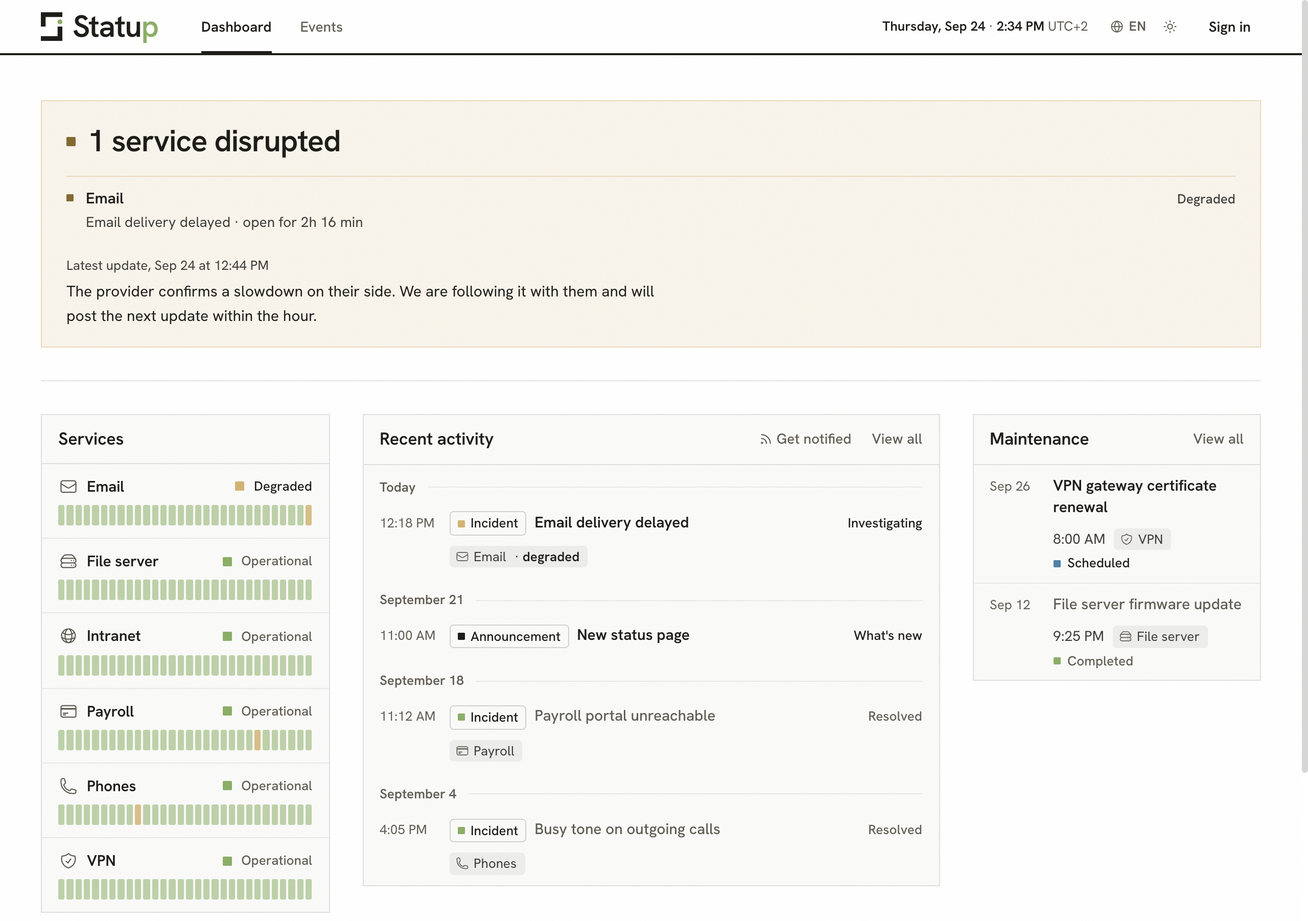
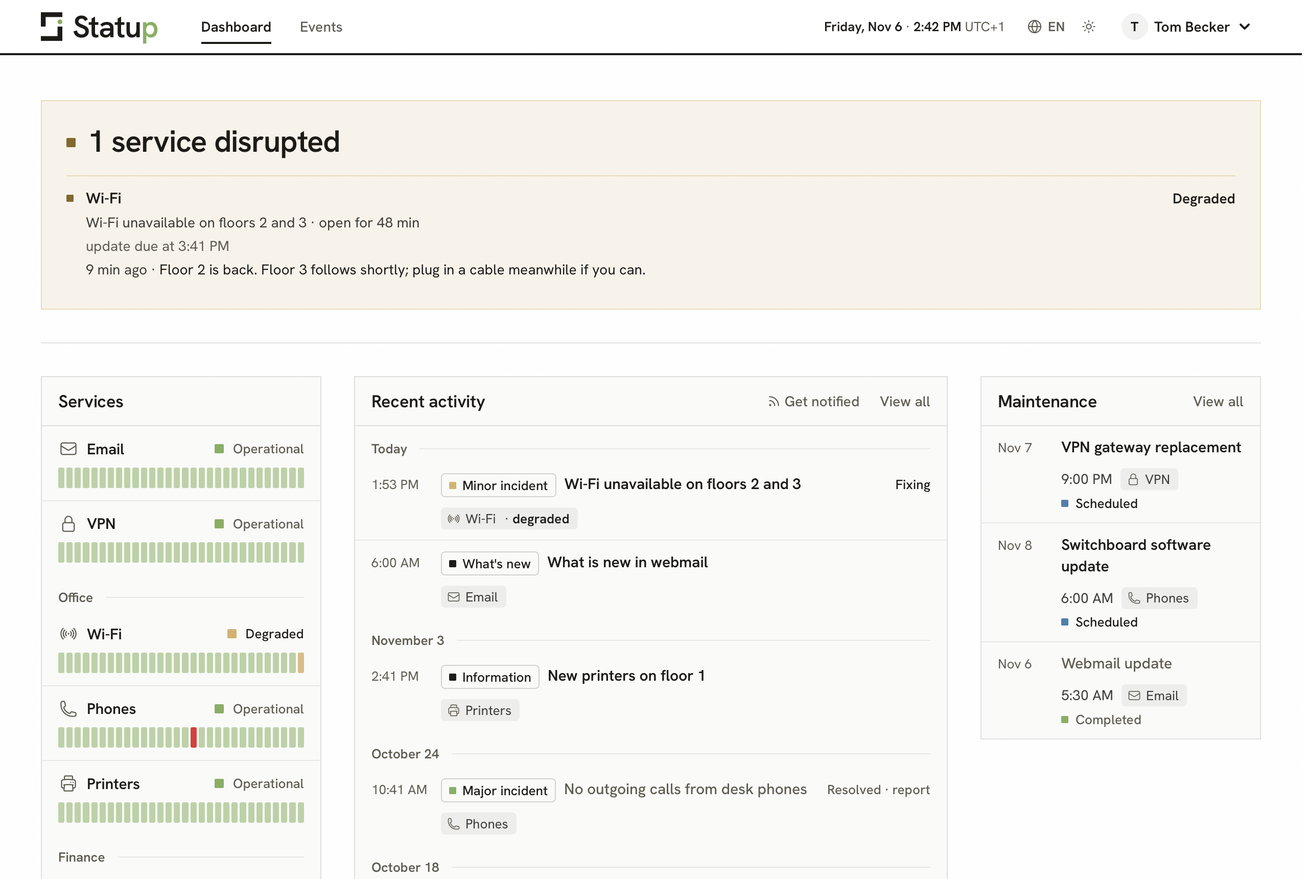
README: shorter, the four ways to install, new screenshots with a themes image, no roadmap

diff --git a/README.md b/README.md
@@ -8,10 +8,10 @@
 ### Every team in the loop, before anyone asks.
 
 [![License: AGPL-3.0-or-later](https://img.shields.io/badge/license-AGPL--3.0--or--later-blue.svg)](LICENSE)
+[![Latest release](https://img.shields.io/github/v/release/karl-cta/statup?label=release)](https://github.com/karl-cta/statup/releases/latest)
 [![Built with Rust](https://img.shields.io/badge/built%20with-Rust-orange.svg)](https://www.rust-lang.org/)
-[![Status: pre-v1](https://img.shields.io/badge/status-pre--v1-yellow.svg)](#status)
 
-[Live demo](https://demo.statup.dev) · [Website](https://statup.dev) · [Quick start](#quick-start) · [Documentation](https://statup.dev/docs/)
+[Live demo](https://demo.statup.dev) · [Website](https://statup.dev) · [Install](#install) · [Documentation](https://statup.dev/docs/)
 
 </div>
 
@@ -19,55 +19,37 @@
 
 <picture>
   <source media="(prefers-color-scheme: dark)" srcset=".github/assets/status-page-dark.png">
-  <img src=".github/assets/status-page.png" alt="The status page: a banner saying one service is disrupted, with the incident and its latest update, then the services with thirty days of availability, the recent activity and the maintenance schedule" width="1280">
+  <img src=".github/assets/status-page.png" alt="The Statup status page: a banner saying one service is disrupted, with the incident and its latest update, then the services with their recent days, the recent activity and the maintenance schedule" width="1280">
 </picture>
 
 ## What is Statup?
 
 > *"Is the internet down?"* *"Is it just me, or is Outlook broken?"*
 
-Every outage starts with the same questions, by phone, by chat and at the IT office door. Statup answers them before anyone asks.
-
-It is a status page you host yourself. Whoever runs a service posts, once, what is broken, what is planned and what has changed. Everyone else reads it in plain words, from a desk or a phone, without an account. Monitoring tools are made for the people who fix things; Statup is made for everyone else.
-
-**What it is for**
-
-- **An outage**: the VPN is down. The whole company sees it, sees that IT is on it, and sees when it is back.
-- **Planned work**: the accounting software upgrade is announced a week ahead, then starts and ends on its own on Saturday.
-- **News**: a new version of the payroll software, the printer that moved to the second floor, the VPN client everyone must install.
-- **Beyond IT**: a small business keeping its clients informed when its service is down.
-
-**[Try the live demo](https://demo.statup.dev)**, and sign in with `demo@statup.dev` / `StatupDemo#1` to publish as an editor. It starts over every hour.
+Statup answers before anyone asks. It is a status page you host yourself: whoever runs a service posts, once, what is broken, what is planned and what has changed, and everyone else reads it in plain words, from a desk or a phone. Monitoring tools are made for the people who fix things; Statup is made for everyone else.
 
 ## Features
 
 - **The answer first**: a banner says what is wrong, what is affected and since when, above every service and its last 90 days.
-- **Runs on its own**: a service follows the incident that names it, and planned work starts and ends at the times announced.
-- **Notices first**: it checks on its own, every minute, that a site or a server answers, or listens to the monitoring you already run; an outage shows after three minutes without an answer, or the delay set for that service.
-- **Works with your monitoring**: Prometheus, Grafana, Zabbix or Uptime Kuma report an outage, and Statup announces it; a script publishes through the HTTP API, and an Uptime Kuma status page imports in one go.
-- **Quick to publish**: dated updates, reusable templates and a short report once an incident is resolved; an outage spotted by the checks is declared in one click.
-- **Tells people where they are**: each incident, maintenance and announcement posted to Microsoft Teams, Slack, Google Chat, Discord or Mattermost, to phones through ntfy, by email, or to any tool through a webhook, in the language of each channel.
-- **Easy to follow**: search and filters, a side panel to read without leaving the list, an Atom feed for feed readers, and an email at each update for those who subscribe.
-- **A record of everything**: a Journal for administrators shows who changed what, sign-ins, outages with their reason and messages that did not leave, kept 90 days and exported as a CSV file.
-- **Your page, your way**: public or members only, your name and logo, blocks you arrange on the page; French, English, German and Spanish, light and dark, accessible.
+- **Notices on its own**: it checks every minute that a site or a server answers, or takes the outages your Prometheus, Grafana, Zabbix or Uptime Kuma already see.
+- **Quick to publish**: incidents, planned maintenance and news, with dated updates, templates and a short report; planned work starts and ends on its own.
+- **Reaches people where they are**: Microsoft Teams, Slack, Google Chat, Discord, Mattermost, ntfy, email and webhooks, plus email subscriptions, an Atom feed and a widget for your intranet.
+- **For the right eyes**: public or members only, with services kept to the groups that use them.
+- **Your page, your way**: your name and logo, twelve colours and four ambiances in light and dark, in French, English, German and Spanish.
+- **Light and safe**: one Rust binary and one SQLite file, backups built in, an HTTP API, a Journal of who did what, Argon2id passwords and a strict Content Security Policy.
 
-**Light, private, safe by default.**
+<p align="center">
+  <picture>
+    <source media="(prefers-color-scheme: dark)" srcset=".github/assets/themes-dark.png">
+    <img src=".github/assets/themes.png" alt="The header and the banner of the status page cut in four slices, each in another theme: a colour for the header line and an ambiance for the background" width="640">
+  </picture>
+  <br>
+  <sub>The same page in four of its themes.</sub>
+</p>
 
-- **Light**: one Rust binary and one SQLite file, in a Docker image of about 11 MB. No Redis, no Postgres.
-- **Private**: fonts and scripts come from your instance. The server only reaches the addresses you ask it to check or to notify, and GitHub once a day to look for a new version (`UPDATE_CHECK=false` turns that off).
-- **Safe**: passwords hashed with Argon2id, a CSRF token on every form, a strict Content Security Policy on every page.
+## Install
 
-## How it works
-
-- **Services** are the tools people rely on: mail, the VPN, the ERP, the phones. Each shows one state: operational, degraded, outage or maintenance. Statup can also check on its own that a service answers.
-- **Events** are what gets published. An **incident** when something breaks, a **maintenance** when work is planned, an **announcement** for news. An incident sets the state of the services it names until it reaches Monitoring, and a maintenance while it is under way, unless it announces no downtime.
-- **People** read the page, with or without an account. **Editors** publish events and set service states; **administrators** also run the settings, the team and the layout of the page.
-
-## Quick start
-
-You need Docker with Docker Compose 2.24 or newer.
-
-**1. Start Statup**
+**Docker**, with Docker Compose 2.24 or newer:
 
 ```bash
 mkdir statup && cd statup
@@ -75,54 +57,32 @@ curl -O https://raw.githubusercontent.com/karl-cta/statup/main/docker-compose.ym
 docker compose up -d
 ```
 
-Docker downloads the ready image, for x86-64 and ARM servers alike, and starts it in seconds.
+**Linux**, as a systemd service:
 
-Without Docker, one command installs Statup as a service on [Linux](https://statup.dev/docs/install-linux/) or [Windows Server](https://statup.dev/docs/install-windows/).
+```bash
+curl -fsSL https://github.com/karl-cta/statup/releases/latest/download/install.sh | sudo sh
+```
 
-**2. Open it in your browser**
+**Windows Server**, as a Windows service, in PowerShell opened as an administrator:
 
-At http://localhost:3000, or your server's address on port 3000, an empty instance walks you through four steps: your administrator account, the page's name, logo and audience, the services to follow, then the address to share.
+```powershell
+irm https://github.com/karl-cta/statup/releases/latest/download/install.ps1 | iex
+```
 
-**3. Invite your team**
+**NixOS**: add the flake and enable its module, see [NixOS](https://statup.dev/docs/nixos/).
 
-Add them from the **Team** page: they open the same address. For HTTPS and a name of your own, such as `status.example.com`, put Statup behind a reverse proxy.
+Then open port 3000 of your server in a browser: the first screen creates the administrator account and walks you through the page. The [documentation](https://statup.dev/docs/) has every setting, HTTPS behind a reverse proxy, backups and upgrades.
 
-> [!TIP]
-> The [documentation](https://statup.dev/docs/) has the rest: every setting, installing without Docker, a reverse proxy with nginx, Caddy or IIS, backups, upgrades and a forgotten password.
+## Live demo
 
-## Roadmap
-
-<picture>
-  <source media="(prefers-color-scheme: dark)" srcset=".github/assets/roadmap-dark.png">
-  <img src=".github/assets/roadmap.png" alt="Roadmap: shipped are automatic monitoring, notifications, four languages, password reset and clearer incident updates; step 1, the activity log, shipped in 0.6.0; step 2, groups and visibility, shipped in 0.7.0; step 3, email subscriptions, shipped in 0.8.0; step 4, API and monitoring tools, shipped in 0.9.0; steps 5 and 6, recurring maintenance and themes, shipped in 0.10.0; step 7, backup and restore, shipped in 0.11.0; step 8, the status widget, shipped in 0.12.0; coming next, step 9 listed below, then the stable 1.0 release" width="1296">
-</picture>
-
-Planned, in this order, without dates:
-
-1. ~~**Activity log**: every action, check and sign-in, for administrators to look back on.~~ Shipped in 0.6.0.
-2. ~~**Groups and visibility**: choose which services and events each group of users sees.~~ Shipped in 0.7.0, with folders of services.
-3. ~~**Email subscriptions**: visitors get each update in their inbox.~~ Shipped in 0.8.0.
-4. ~~**API and monitoring tools**: Zabbix, Grafana or a script open and close incidents by themselves.~~ Shipped in 0.9.0, with an import from Uptime Kuma.
-5. ~~**Recurring maintenance**: announce a slot once, and add any maintenance to your calendar.~~ Shipped in 0.10.0.
-6. ~~**Themes** and an accent colour.~~ Shipped in 0.10.0, with twelve colours and four ambiances.
-7. ~~**Backup and restore**: one command each, without stopping Statup.~~ Shipped in 0.11.0, with installers for Linux and Windows Server.
-8. ~~**Status widget** for your intranet or wiki.~~ Shipped in 0.12.0.
-9. **Hardening**: full testing, a security review and safe upgrades from every version, before 1.0.
-
-Ideas and requests are welcome in the [issues](https://github.com/karl-cta/statup/issues).
-
-## Status
-
-Statup is **pre-v1**: usable and self-hostable, with the interface being finished before the first stable release. Expect changes between versions and back up before upgrading. Every change is in the [changelog](.github/CHANGELOG.md).
-
-Statup is not related to Statping, a Go project first published under the name Statup.
+[demo.statup.dev](https://demo.statup.dev): sign in with `demo@statup.dev` / `StatupDemo#1` to publish as an editor. It starts over every hour.
 
 ## Contributing
 
-Built with Rust, Axum, SQLite, Askama templates and htmx. The [contributing guide](.github/CONTRIBUTING.md) explains how to build Statup, where things are in the code, and the checks a change must pass.
+Built with Rust, Axum, SQLite, Askama and htmx. The [contributing guide](.github/CONTRIBUTING.md) explains how to build Statup and the checks a change must pass. Every change is in the [changelog](.github/CHANGELOG.md).
 
 ## License
 
-Statup is licensed under the [GNU Affero General Public License v3.0 or later](LICENSE). If you run a modified version for others over a network, offer them its source code.
+Statup is licensed under the [GNU Affero General Public License v3.0 or later](LICENSE). If you run a modified version for others over a network, offer them its source code. It ships htmx, the Hanken Grotesk font, icons from Heroicons and the base styles of Tailwind CSS, under their own licenses: see [THIRD_PARTY_NOTICES.md](THIRD_PARTY_NOTICES.md).
 
-It ships htmx, the Hanken Grotesk font, icons from Heroicons and the base styles of Tailwind CSS, under their own licenses: see [THIRD_PARTY_NOTICES.md](THIRD_PARTY_NOTICES.md).
+Statup is not related to Statping, a Go project first published under the name Statup.
